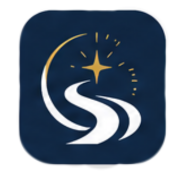
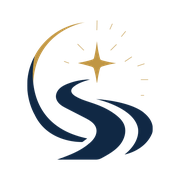
chore: integrate final brand assets

diff --git a/src/components/brand/logo.tsx b/src/components/brand/logo.tsx
@@ -8,20 +8,20 @@ export type LogoProps = {
   alt?: string;
   size?: LogoSize;
   className?: string;
-  priority?: boolean;
+  preload?: boolean;
   sizes?: string;
 };
 
 const logoSizes: Record<LogoSize, { width: number; height: number; className: string }> = {
-  sm: { width: 120, height: 40, className: "h-8 w-auto" },
-  md: { width: 168, height: 56, className: "h-10 w-auto" },
-  lg: { width: 216, height: 72, className: "h-12 w-auto" },
+  sm: { width: 120, height: 30, className: "h-auto w-[120px]" },
+  md: { width: 168, height: 42, className: "h-auto w-[168px]" },
+  lg: { width: 216, height: 54, className: "h-auto w-[216px]" },
 };
 
 export function Logo({
   alt = "SoulWithQuran",
   className,
-  priority = false,
+  preload = false,
   size = "md",
   sizes = "(min-width: 1024px) 216px, 168px",
 }: LogoProps) {
@@ -29,13 +29,13 @@ export function Logo({
 
   return (
     <Image
-      src="/brand/logos/logo-horizontal-primary.png"
+      src="/brand/logos/soulwithquran-logo-primary.png"
       alt={alt}
       width={dimensions.width}
       height={dimensions.height}
-      priority={priority}
+      preload={preload}
       sizes={sizes}
-      className={cn(dimensions.className, className)}
+      className={cn(className ?? dimensions.className)}
     />
   );
 }

diff --git a/src/lib/email/free-trial-emails.ts b/src/lib/email/free-trial-emails.ts
@@ -1,4 +1,5 @@
 import { courseOptions, type TrialFormValues } from "@/lib/free-trial-schema";
+import { emailLogoHtml } from "@/lib/email/branding";
 
 const courseRecommendationValue = courseOptions[courseOptions.length - 1];
 
@@ -72,6 +73,7 @@ export function buildAdminNotificationEmail(data: TrialFormValues): EmailContent
 
   const html = `
     <div style="font-family: Arial, Helvetica, sans-serif; color: #2b2b2b;">
+      ${emailLogoHtml}
       <h2 style="color: #17324d;">New free trial request</h2>
       <table style="border-collapse: collapse; width: 100%; max-width: 560px;">
         ${rows
@@ -97,6 +99,7 @@ export function buildVisitorAcknowledgementEmail(data: TrialFormValues): EmailCo
 
   const html = `
     <div style="font-family: Arial, Helvetica, sans-serif; color: #2b2b2b; line-height: 1.6;">
+      ${emailLogoHtml}
       <p>Dear ${escapeHtml(data.contactName)},</p>
       <p>Thank you for requesting a free trial with SoulWithQuran. We’ve received your details and will review the learner’s current stage, goals, and preferred availability. We’ll send the confirmed trial time and meeting link within 24 hours.</p>
       <p>The trial is completely free, lasts 20–30 minutes, and no payment is required.</p>

diff --git a/src/lib/email/contact-emails.ts b/src/lib/email/contact-emails.ts
@@ -1,4 +1,5 @@
 import type { ContactFormValues } from "@/lib/contact-schema";
+import { emailLogoHtml } from "@/lib/email/branding";
 
 type EmailContent = {
   subject: string;
@@ -35,6 +36,7 @@ export function buildAdminNotificationEmail(data: ContactFormValues): EmailConte
 
   const html = `
     <div style="font-family: Arial, Helvetica, sans-serif; color: #2b2b2b;">
+      ${emailLogoHtml}
       <h2 style="color: #17324d;">New contact enquiry</h2>
       <table style="border-collapse: collapse; width: 100%; max-width: 560px;">
         ${rows
@@ -65,6 +67,7 @@ export function buildAdminNotificationEmail(data: ContactFormValues): EmailConte
 export function buildVisitorAcknowledgementEmail(data: ContactFormValues): EmailContent {
   const html = `
     <div style="font-family: Arial, Helvetica, sans-serif; color: #2b2b2b; line-height: 1.6;">
+      ${emailLogoHtml}
       <p>Dear ${escapeHtml(data.name)},</p>
       <p>Thank you for getting in touch with SoulWithQuran. We’ve received your message and will reply using the contact details you provided.</p>
       <table style="border-collapse: collapse; margin: 16px 0;">

diff --git a/src/app/courses/page.tsx b/src/app/courses/page.tsx
@@ -5,6 +5,7 @@ import { CoursesOverview } from "@/components/sections/courses-overview";
 import { CoursesFinalCta } from "@/components/sections/courses-final-cta";
 import { CoursesLearningPath } from "@/components/sections/courses-learning-path";
 import { CoursesPageHero } from "@/components/sections/courses-page-hero";
+import { defaultSocialImage } from "@/lib/site";
 
 export const metadata: Metadata = {
   title: "Online Quran Courses for Children and Adults | SoulWithQuran",
@@ -19,12 +20,14 @@ export const metadata: Metadata = {
       "Explore online Qaida, Nazra, Tajweed, Hifz, and Islamic Studies courses for children and adults with patient, structured guidance.",
     url: "/courses",
     type: "website",
+    images: [defaultSocialImage],
   },
   twitter: {
-    card: "summary",
+    card: "summary_large_image",
     title: "Online Quran Courses for Children and Adults | SoulWithQuran",
     description:
       "Explore online Qaida, Nazra, Tajweed, Hifz, and Islamic Studies courses for children and adults with patient, structured guidance.",
+    images: [defaultSocialImage],
   },
 };
 

diff --git a/src/components/layout/site-footer.tsx b/src/components/layout/site-footer.tsx
@@ -27,18 +27,16 @@ export function SiteFooter() {
             <Link
               href="/"
               aria-label="SoulWithQuran home"
-              className="inline-flex items-center gap-3 rounded-medium"
+              className="inline-flex rounded-medium"
             >
               <Image
-                src="/brand/marks/mark-reversed.png"
-                alt="SoulWithQuran brand mark"
-                width={64}
-                height={64}
-                sizes="64px"
+                src="/brand/logos/soulwithquran-white-primary.png"
+                alt=""
+                width={216}
+                height={54}
+                sizes="216px"
+                className="h-auto w-[216px]"
               />
-              <span className="font-body text-lg font-semibold leading-7 text-white">
-                SoulWithQuran
-              </span>
             </Link>
             <p className="max-w-supporting text-sm leading-6 text-primary-100">
               Tutor-led online Quran learning for children and adults.

diff --git a/src/app/page.tsx b/src/app/page.tsx
@@ -9,6 +9,7 @@ import { HomeTestimonials } from "@/components/sections/home-testimonials";
 import { MeetYourQuranTutor } from "@/components/sections/meet-your-quran-tutor";
 import { PricingTrial } from "@/components/sections/pricing-trial";
 import { WhyLearnersChooseUs } from "@/components/sections/why-learners-choose-us";
+import { defaultSocialImage } from "@/lib/site";
 
 const title = "Online Quran Classes for Children and Adults | SoulWithQuran";
 const description =
@@ -23,11 +24,13 @@ export const metadata: Metadata = {
     description,
     url: "/",
     type: "website",
+    images: [defaultSocialImage],
   },
   twitter: {
-    card: "summary",
+    card: "summary_large_image",
     title,
     description,
+    images: [defaultSocialImage],
   },
 };
 

diff --git a/src/app/layout.tsx b/src/app/layout.tsx
@@ -2,7 +2,7 @@ import type { Metadata } from "next";
 import { Inter, Plus_Jakarta_Sans } from "next/font/google";
 
 import { SiteShell } from "@/components/layout/site-shell";
-import { siteUrl } from "@/lib/site";
+import { defaultSocialImage, siteUrl } from "@/lib/site";
 
 import "./globals.css";
 
@@ -25,6 +25,13 @@ export const metadata: Metadata = {
   title: "SoulWithQuran",
   description:
     "Premium tutor-led online Quran learning for children and adults.",
+  openGraph: {
+    images: [defaultSocialImage],
+  },
+  twitter: {
+    card: "summary_large_image",
+    images: [defaultSocialImage],
+  },
 };
 
 export default function RootLayout({

diff --git a/src/components/layout/site-header.tsx b/src/components/layout/site-header.tsx
@@ -15,9 +15,11 @@ export function SiteHeader() {
         <div className="grid grid-cols-[auto_1fr_auto] items-center gap-4 rounded-pill border border-border/70 bg-surface px-6 py-2 shadow-small lg:px-8">
           <Link href="/" aria-label="SoulWithQuran home" className="shrink-0 justify-self-start">
             <Logo
+              alt=""
               size="md"
+              preload
               className="h-11 w-auto sm:h-12 lg:h-14"
-              sizes="(min-width: 1024px) 176px, (min-width: 640px) 152px, 136px"
+              sizes="(min-width: 1024px) 224px, (min-width: 640px) 192px, 176px"
             />
           </Link>
 

diff --git a/src/app/courses/[slug]/page.tsx b/src/app/courses/[slug]/page.tsx
@@ -6,6 +6,7 @@ import {
   courseSlugs,
   getCourseBySlug,
 } from "@/content/courses";
+import { defaultSocialImage } from "@/lib/site";
 
 type CourseRouteProps = {
   params: Promise<{ slug: string }>;
@@ -38,11 +39,13 @@ export async function generateMetadata({
       description: course.seo.description,
       url: course.seo.canonical,
       type: "website",
+      images: [defaultSocialImage],
     },
     twitter: {
-      card: "summary",
+      card: "summary_large_image",
       title: course.seo.title,
       description: course.seo.description,
+      images: [defaultSocialImage],
     },
   };
 }

diff --git a/src/lib/email/branding.ts b/src/lib/email/branding.ts
@@ -1,0 +1,13 @@
+import { siteUrl } from "@/lib/site";
+
+export const emailLogoHtml = `
+  <p style="margin: 0 0 24px;">
+    <img
+      src="${siteUrl}/brand/email/email-logo-600x150.png"
+      width="200"
+      height="50"
+      alt="SoulWithQuran"
+      style="display: block; width: 200px; max-width: 100%; height: auto; border: 0;"
+    />
+  </p>
+`.trim();

diff --git a/src/lib/site.ts b/src/lib/site.ts
@@ -1,3 +1,10 @@
 // Canonical URLs must always use the verified production origin, including in
 // local and Vercel preview builds.
 export const siteUrl = "https://soulwithquran.com";
+
+export const defaultSocialImage = {
+  url: `${siteUrl}/brand/social/og-default-1200x630.png`,
+  width: 1200,
+  height: 630,
+  alt: "SoulWithQuran",
+};

diff --git a/docs/brand/ASSET_MANIFEST.md b/docs/brand/ASSET_MANIFEST.md
@@ -6,15 +6,19 @@ Raster-wrapper SVGs are not approved as genuine vector assets. Until true vector
 
 | Asset path | Asset type | Intended use | Approval status | Notes |
 | --- | --- | --- | --- | --- |
-| `public/brand/logos/logo-horizontal-primary.png` | Primary horizontal logo | Header, approved light surfaces | Approved PNG fallback | Tight horizontal canvas; navy artwork with gold details and transparency. |
-| `public/brand/logos/logo-horizontal-reversed.png` | Reversed horizontal logo | Footer or approved dark surfaces | Pending corrected asset | Current file was removed because the arrangement places the symbol on the right; a correct symbol-left, wordmark-right version is still required. |
-| `public/brand/logos/logo-primary.png` | Square-canvas horizontal logo | None | Removed duplicate | Replaced by the tightly cropped primary horizontal PNG. |
-| `public/brand/logos/*.svg` | Raster-wrapper SVGs | None until replaced | Pending genuine vector | Removed from production use because the files embed base64 PNG data. |
-| `public/brand/marks/mark-primary.png` | Primary brand mark | Compact logo contexts and application icon source | Approved PNG fallback | Transparent PNG; use without redrawing or altering the mark. |
-| `public/brand/marks/mark-reversed.png` | Reversed brand mark | Approved dark surfaces and compact contexts | Approved PNG fallback | White mark with retained gold details on transparency. |
-| `src/app/favicon.ico` | Traditional favicon | Browser tab fallback | Approved | Retained as the traditional Next.js favicon. |
-| `src/app/icon.png` | Application icon | Next.js application metadata icon | Approved | Retained as the 512px application icon. |
-| `src/app/apple-icon.png` | Apple touch icon | Apple home-screen icon | Approved | Retained as the 180px Apple icon. |
+| `public/brand/logos/soulwithquran-logo-primary.png` | Primary horizontal logo | Header and approved light surfaces | Approved PNG | 1600 x 400 transparent master; displayed at responsive header dimensions without distortion. |
+| `public/brand/logos/soulwithquran-white-primary.png` | Reversed horizontal logo | Footer and approved dark surfaces | Approved PNG | 1600 x 400 transparent master with white artwork. |
+| Supplied `public/brand/logos/*.svg` exports | Embedded brand-board images | None | Rejected for runtime use | Each SVG has a square viewBox and embeds the same large raster brand board rather than a clean horizontal logo; excluded from production until genuine vector exports are supplied. |
+| `public/brand/marks/mark-512x512.png` | Primary brand mark | Favicon and application icon source | Approved PNG | 512 x 512 transparent master; artwork padding is preserved in derivatives. |
+| `public/brand/marks/mark-512x512-white.png` | Reversed brand mark | Future approved dark-surface contexts | Approved PNG, currently unused | 512 x 512 transparent master with white artwork. |
+| `public/brand/icons/favicon-16x16.png` | Small favicon source | 16px ICO entry | Approved PNG | Supplied size-specific transparent raster. |
+| `public/brand/icons/favicon-32x32.png` | Standard favicon source | 32px ICO entry | Approved PNG | Supplied size-specific transparent raster. |
+| `public/brand/icons/favicon-48x48.png` | Large favicon source | 48px ICO entry | Approved PNG | Supplied size-specific transparent raster. |
+| `public/brand/social/og-default-1200x630.png` | Default social image | Open Graph and large Twitter card | Approved PNG | Production metadata uses the absolute canonical-domain URL. |
+| `public/brand/email/email-logo-600x150.png` | Email-safe horizontal logo | Contact and free-trial HTML emails | Approved PNG | Served from the canonical production URL and displayed at 200 x 50. |
+| `src/app/favicon.ico` | Multi-size favicon | Browser tab fallback | Generated from approved sources | Contains the supplied 16, 32, and 48px PNG entries. |
+| `src/app/icon.png` | Application icon | Next.js application metadata icon | Generated from approved source | 512 x 512 optimized PNG derived from the primary mark. |
+| `src/app/apple-icon.png` | Apple touch icon | Apple home-screen icon | Generated from approved source | 180 x 180 optimized PNG derived from the primary mark. |
 | `src/app/icon.svg` | Raster-wrapper application icon | None | Removed; pending genuine vector | PNG equivalent is retained. |
 | `public/images/homepage/hero-online-quran-class.jpg` | Homepage photograph | Hero online-learning scene | Approved | Portrait composition; preserve the learner, Quran, and laptop during responsive cropping. |
 | `public/images/homepage/child-learning-quran-online.jpg` | Homepage photograph | Learner or course-support section | Approved | Show the learner and study materials without inventing identity or relationship claims. |
